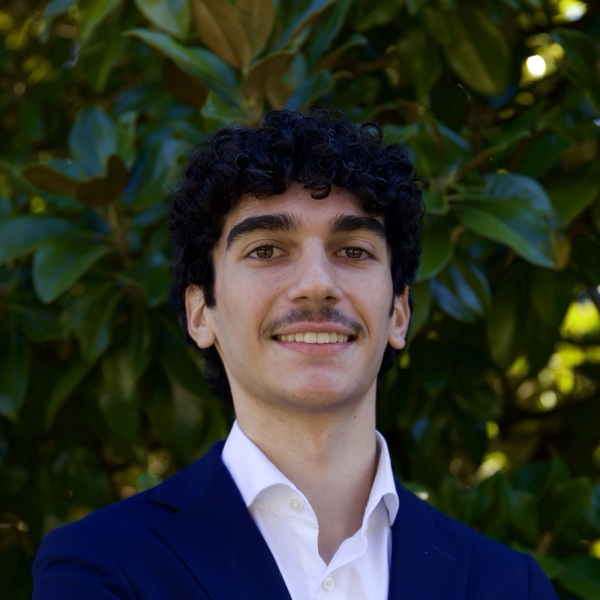
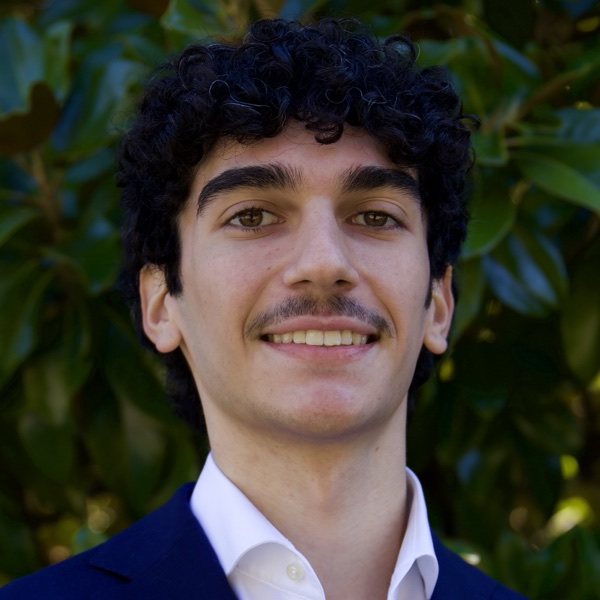
Fix project-row link click target + tighter headshot crop
- .row-link pseudo-element z-index was 1; .row-logo is z-index 2, so
  the logo region sat above the pseudo and any area the pseudo was
  ostensibly covering could get blocked by stacking-context quirks
  from the logo. Raised pseudo to z-index 3 so clicks anywhere on
  project rows (including the logo area) cleanly trigger the link.
- Headshot re-cropped tighter: 2000×2000 square starting at
  (1240, 1400) from the 4480×6720 original — face fills ~80% of the
  frame now, no shoulders visible. Downscaled to 600px @ 84%.

diff --git a/index.html b/index.html
@@ -331,9 +331,10 @@
             color: var(--accent);
         }
         /* Project-row click-extension: pseudo-element covers the whole row
-           so clicking anywhere on the row activates the project link. */
+           so clicking anywhere on the row activates the project link. Must
+           sit above .row-logo (z-index: 2) or logo area eats the click. */
         .row-title a.row-link::after {
-            content: ""; position: absolute; inset: 0; z-index: 1;
+            content: ""; position: absolute; inset: 0; z-index: 3;
             border-radius: 2px;
         }
         .row:has(.row-title a.row-link:focus-visible) {
